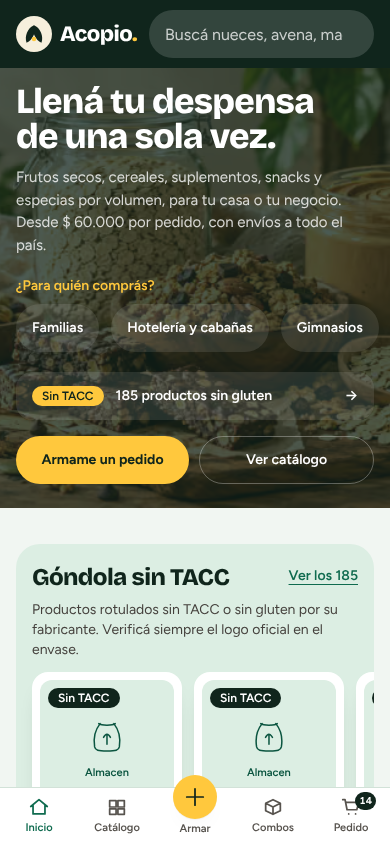
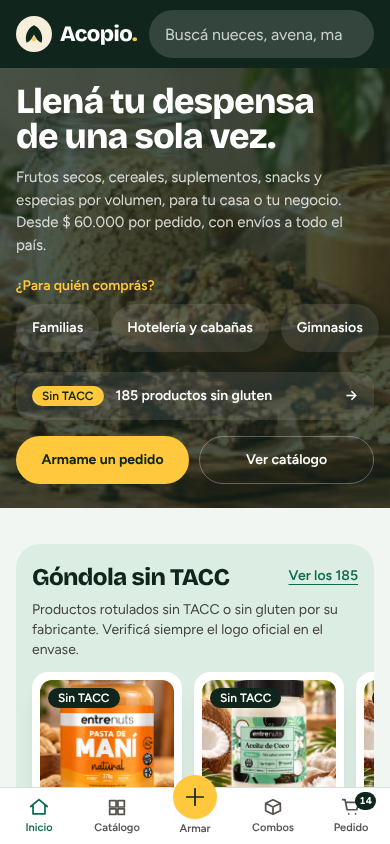
Imágenes: productos con foto propia muestran solo la propia; seis productos nuevos con imagen editada (#32)
Claude-Session: https://claude.ai/code/session_01AdVG5TyZmaUrU68vAP2mxP

Changed region(s): [[0.0923, 0.8009, 0.4615, 0.955], [0.4923, 0.8009, 0.8615, 0.955], [0.9231, 0.8009, 0.9846, 0.955]]

diff --git a/src/app/(tienda)/producto/[codigo]/page.tsx b/src/app/(tienda)/producto/[codigo]/page.tsx
@@ -38,6 +38,9 @@ export default async function Producto({ params }: Props) {
   const fila = await cargar((await params).codigo);
   if (!fila) notFound();
   const cfg = await leerConfig();
+  // Con imagen propia no se muestra la foto del proveedor.
+  const propias = fila.fotos.filter((x) => x.startsWith("/img/"));
+  if (propias.length) fila.fotos = propias;
   const p = aTienda(fila, cfg);
   const reventa = precioSugerido(p.precio, cfg.recargoSugeridoPct);
   const porUnidad = precioPorUnidadBase(p.precio, p.contenido, p.unidad);
